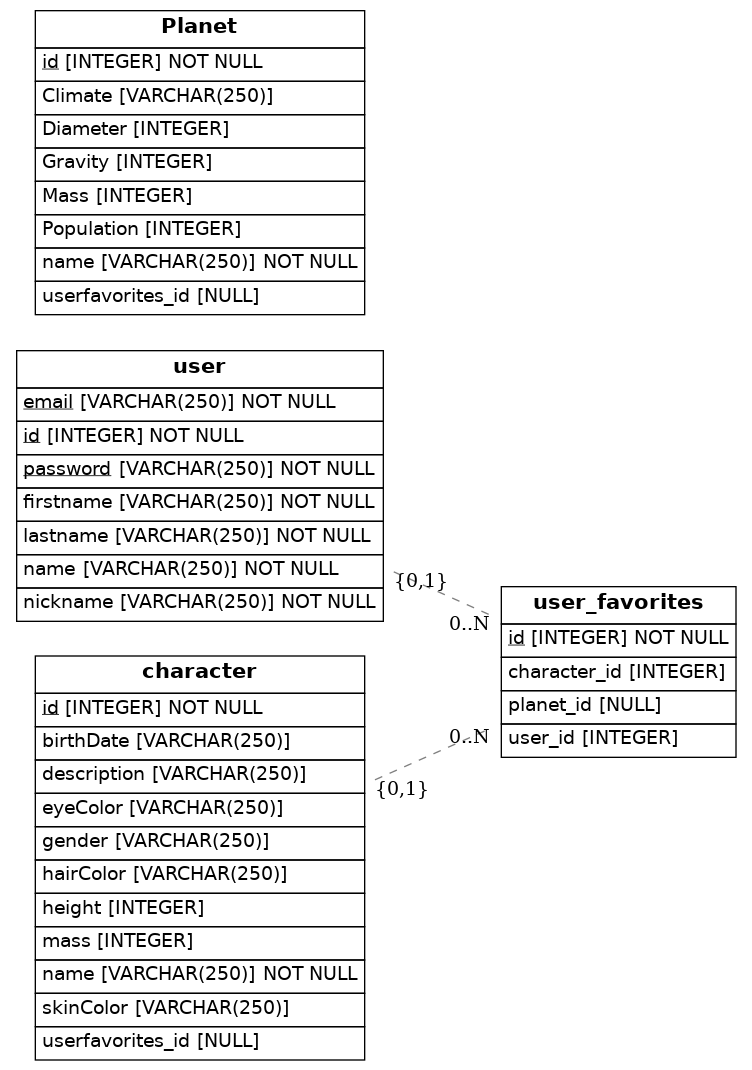
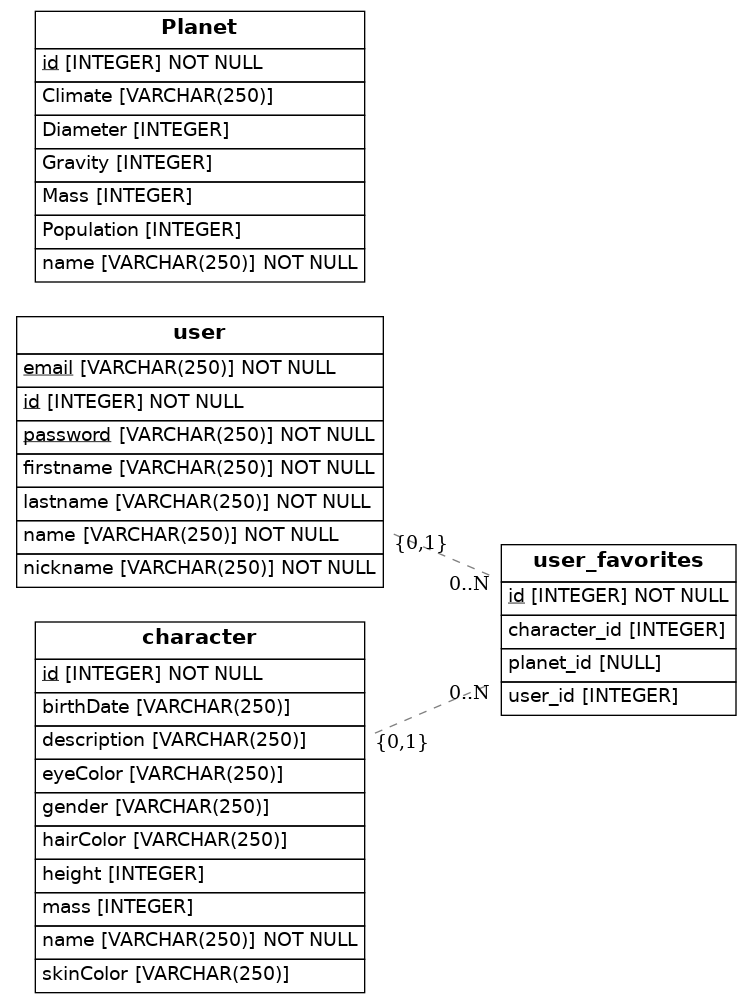
foreign keys moved from Child tables Planet to parent table userfavorites

diff --git a/src/models.py b/src/models.py
@@ -41,7 +41,7 @@ class userFavorites(Base):
 class Planet(Base):
     __tablename__ = 'Planet'
     id = Column(Integer, primary_key=True)
-    userfavorites_id = Column(ForeignKey("userfavorites.id"))
+    
     userfavorites = relationship("userFavorites", back_populates="planet")
     name = Column(String(250), nullable=False)
     Climate = Column(String(250), nullable=True)
@@ -54,7 +54,7 @@ class Planet(Base):
 class Character(Base):
     __tablename__ = 'character'
     id = Column(Integer, primary_key=True)
-    userfavorites_id = Column(ForeignKey("userfavorites.id"))
+    
     userfavorites = relationship("userFavorites", back_populates="character")
     name = Column(String(250), nullable=False)
     height = Column(Integer, nullable=True)
